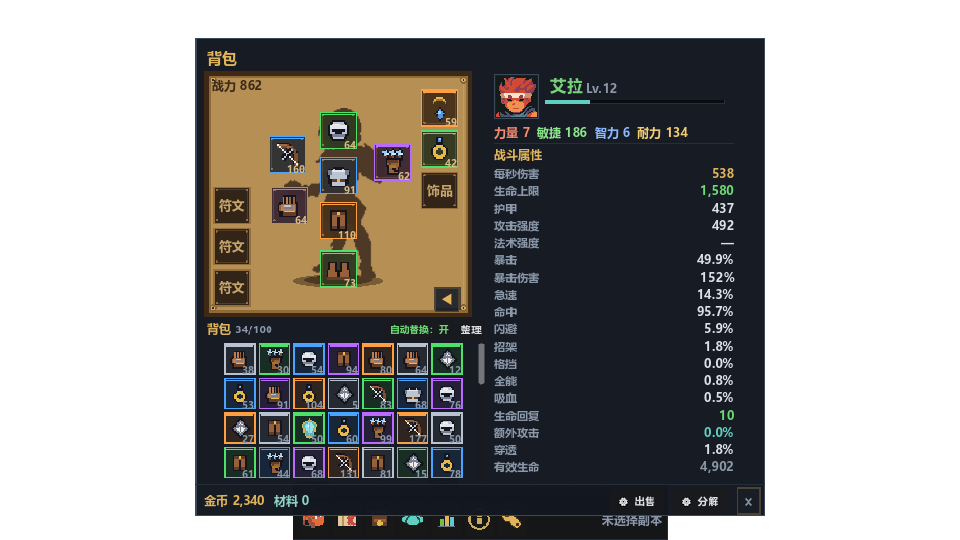
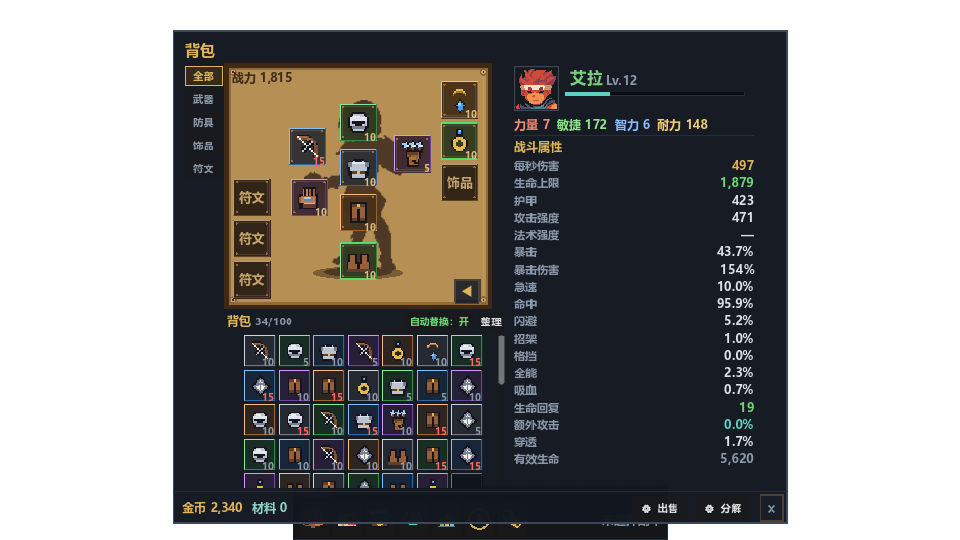
Refine item score wear level and inventory filters

Changed region(s): [[0.1562, 0.0296, 0.8438, 0.9778]]

diff --git a/DETAILS.md b/DETAILS.md
@@ -4,7 +4,7 @@
 
 ## 基础信息
 
-- 版本：0.84.0
+- 版本：0.85.0
 - 引擎：Godot 4.7.2（GL Compatibility）
 - 逻辑分辨率：1280 × 720
 - 实际窗口：960 × 540，无边框、透明、可拖动
@@ -119,16 +119,18 @@
 - 头盔 / 胸甲 / 腿甲 / 鞋在中轴
 - 护手在左手，主武器在左手上方，副手在右手
 - 所有防具、主手、副手槽统一 50px；三个饰品和三个符文槽保持原尺寸
-- 背包整理顺序：锁定优先，其次战力，再次品质
+- 背包整理顺序：锁定优先，其次评分，再次品质
 - 三个符文在左下竖排
 - 项链、单戒、饰品在右上竖排
 - 主手 / 副手槽 56px，其他装备槽 50px
 - 背包 7 列、100 格、滚轮查看，可见 4 行
+- 左侧筛选页签：全部 / 武器 / 防具 / 饰品 / 符文
 - 出售/分解设置支持品质勾选和「低于当前装备评分」选项
 - 支持拖拽装备、交换位置、拖回背包卸下
 - 戒指和符文可在对应栏位间交换
 - 左键装备 / 卸下，右键菜单出售 / 锁定 / 分解
-- 角色名等级右侧显示战力，数值为已穿戴装备评分 + 等级基础属性 + 已激活套装效果
+- 左上角显示人物战力，人物等级后不再重复显示战力
+- 装备悬浮显示评分；槽位右下角数字为穿戴等级，未达到时为红色
 - 悬浮背包内装备时，并排显示该装备与对应穿戴装备
 - 对比弹窗中先显示两件装备，再分别显示各自套装信息
 - 对比弹窗右侧装备标题为灰色「当前装备」，左侧悬停装备不再显示标题

diff --git a/README.md b/README.md
@@ -2,7 +2,7 @@
 
 桌面宠物式像素挂机小游戏。没有技能和手动战斗，只有角色天赋、装备词条、套装和一路变强的数字。
 
-- 版本：0.84.0
+- 版本：0.85.0
 - 平台：Windows
 - 引擎：Godot 4.7.2
 
@@ -54,7 +54,7 @@
 
 ![组队](shots/v390_team.png)
 
-![背包](shots/v840_bag.png)
+![背包](shots/v853_bag.png)
 
 ## 详细说明
 
